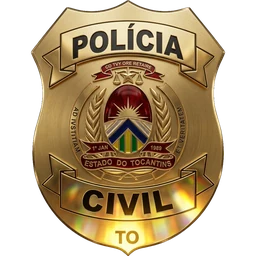
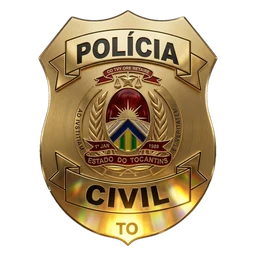
Black Forense: distintivos sem o borrão em volta, e Acre com a Idecan
O "traço" em volta de cada distintivo era a sombra que eu tinha posto para
descolá-lo do fundo: sobre o cinza-claro da seção ela virava um borrão à
esquerda e embaixo. Saiu — o distintivo já tem relevo e brilho próprios.

Junto, o recorte das imagens foi refeito: o fundo agora sai inteiro, sem véu
semitransparente nenhum, e o distintivo ganhou margem dentro do arquivo para
a ponta de cima e a de baixo não encostarem na borda da imagem.

Acre: a banca foi definida, é a Idecan. Como a ficha do estado no painel ainda
não sabe disso, a oferta ganhou um campo de banca confirmada pelo Clube, que
só vale enquanto o monitor não tiver banca para o estado — atualizada a ficha,
a linha do monitor volta a mandar sozinha.

E a linha de situação deixa de repetir a etapa quando a previsão escrita no
painel já começa por ela ("Comissão formada · Comissão formada; banca em
definição" vira "Comissão formada · banca em definição").

Claude-Session: https://claude.ai/code/session_01Y9TFsAutNQw4KSdTxmhhQq

diff --git a/app/black/CarrosselEditais.tsx b/app/black/CarrosselEditais.tsx
@@ -51,7 +51,15 @@ function linhaDoConcurso(estado: EstadoStatus): string {
   if (banca && prova) return `Banca ${banca} · Prova em ${prova}`;
   if (inscricoes) return `Inscrições até ${inscricoes}`;
   if (banca) return `${etapa} · Banca ${banca}`;
-  if (c?.previsao?.trim()) return `${etapa} · ${c.previsao.trim()}`;
+  if (c?.previsao?.trim()) {
+    // A previsão costuma ser escrita no painel começando pela própria etapa
+    // ("Comissão formada; banca em definição"), e colada depois do rótulo ela
+    // virava "Comissão formada · Comissão formada; banca…". Tira a repetição.
+    const resto = c.previsao
+      .trim()
+      .replace(new RegExp(`^${etapa.replace(/[.*+?^${}()|[\]\\]/g, "\\$&")}\\s*[;:,.·—–-]?\\s*`, "i"), "");
+    return resto ? `${etapa} · ${resto}` : etapa;
+  }
   return etapa;
 }
 
@@ -62,6 +70,8 @@ export interface EditalDaFaixa {
   sigla: string;
   /** Nome por extenso — vai para o texto alternativo do distintivo. */
   orgao: string;
+  /** Banca confirmada pelo Clube, para quando a ficha ainda não tem. */
+  banca?: string;
   /**
    * O que o monitor sabe deste estado. `null` quando ele ainda o classifica
    * abaixo de concurso andando — e aí o cartão não mostra etapa nenhuma, em
@@ -97,8 +107,21 @@ const COM_DISTINTIVO = new Set(["AC", "DF", "ES", "MA", "MG", "PA", "RJ", "TO"])
  * tarja, e não de caixa.
  */
 function Cartao({ edital }: { edital: EditalDaFaixa }) {
-  const { uf, sigla, orgao, estado } = edital;
-  const cor = estado ? NIVEL_COR[estado.nivel] : "#ffcd07";
+  const { uf, sigla, orgao, estado, banca } = edital;
+
+  // A banca que o Clube já confirmou entra quando o monitor ainda não sabe
+  // dela — e só nesse caso: ficha com banca no painel volta a mandar sozinha.
+  const usarBancaConfirmada = Boolean(banca && !estado?.curadoria?.banca?.trim());
+  const cor = usarBancaConfirmada
+    ? NIVEL_COR.banca
+    : estado
+      ? NIVEL_COR[estado.nivel]
+      : "#ffcd07";
+  const linha = usarBancaConfirmada
+    ? `${NIVEL_LABEL.banca} · Banca ${banca}`
+    : estado
+      ? linhaDoConcurso(estado)
+      : "Preparatório incluso";
   // O nome vem da tabela de estados, não do monitor: o cartão precisa dizer
   // "Minas Gerais" mesmo quando o monitor ainda não tem etapa para ele.
   const nome = ESTADO_POR_UF[uf]?.nome ?? uf;
@@ -118,7 +141,7 @@ function Cartao({ edital }: { edital: EditalDaFaixa }) {
             {nome}
           </p>
           <p className="mt-1 truncate text-[12px] font-semibold" style={{ color: cor }}>
-            {estado ? linhaDoConcurso(estado) : "Preparatório incluso"}
+            {linha}
           </p>
         </div>
       </div>
@@ -130,9 +153,11 @@ function Cartao({ edital }: { edital: EditalDaFaixa }) {
           width={256}
           height={256}
           sizes="124px"
-          // `drop-shadow` e não `shadow`: a sombra segue o contorno do
-          // distintivo, e não o quadrado transparente em volta dele.
-          className="absolute left-0 top-1/2 z-10 h-[124px] w-[124px] -translate-y-1/2 object-contain drop-shadow-[0_10px_14px_rgba(0,0,0,0.35)]"
+          // SEM SOMBRA, de propósito. Havia uma, para descolar o distintivo
+          // do fundo; sobre o cinza-claro da seção ela virava um borrão à
+          // esquerda e embaixo de cada distintivo — o "traço" que aparecia no
+          // site. O distintivo já tem relevo e brilho próprios; não precisa.
+          className="absolute left-0 top-1/2 z-10 h-[124px] w-[124px] -translate-y-1/2 object-contain"
         />
       ) : (
         <span

diff --git a/app/black/oferta.ts b/app/black/oferta.ts
@@ -92,14 +92,25 @@ export const PRECO_POR_EDITAL = 4997;
  * Santo, PO para a Perícia Oficial do Maranhão. O brasão de cada um está em
  * public/black/orgaos/<UF>.webp.
  */
-export const EDITAIS_DA_BLACK: { uf: string; sigla: string; orgao: string }[] = [
+export const EDITAIS_DA_BLACK: {
+  uf: string;
+  sigla: string;
+  orgao: string;
+  /**
+   * Banca já confirmada pelo Clube, para quando a novidade chegou antes de a
+   * ficha do estado ser atualizada no painel. Só vale enquanto o monitor não
+   * souber a banca: assim que a ficha tiver banca (e depois data de prova), a
+   * linha do monitor volta a mandar e este campo vira sobra inofensiva.
+   */
+  banca?: string;
+}[] = [
   { uf: "MA", sigla: "PO-MA", orgao: "Perícia Oficial do Maranhão" },
   { uf: "RJ", sigla: "PCERJ", orgao: "Polícia Civil do Rio de Janeiro" },
   { uf: "DF", sigla: "PCDF", orgao: "Polícia Civil do Distrito Federal" },
   { uf: "ES", sigla: "PCI-ES", orgao: "Polícia Científica do Espírito Santo" },
   { uf: "PA", sigla: "PC-PA", orgao: "Polícia Civil do Pará" },
   { uf: "TO", sigla: "PC-TO", orgao: "Polícia Civil do Tocantins" },
-  { uf: "AC", sigla: "PC-AC", orgao: "Polícia Civil do Acre" },
+  { uf: "AC", sigla: "PC-AC", orgao: "Polícia Civil do Acre", banca: "Idecan" },
   { uf: "MG", sigla: "PC-MG", orgao: "Polícia Civil de Minas Gerais" },
 ];
 
